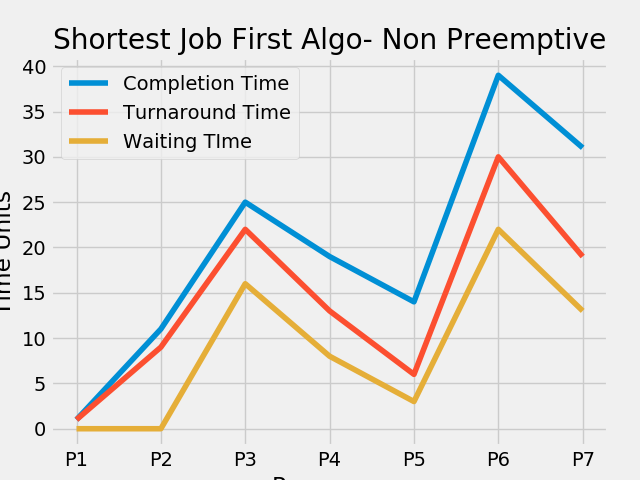
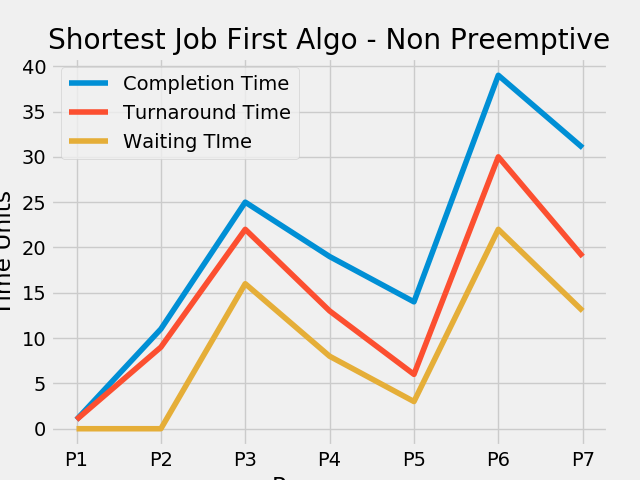
completed

Changed region(s): [[0.0625, 0.0312, 0.9688, 0.125]]

diff --git a/src/SJF_P.py b/src/SJF_P.py
@@ -2,8 +2,6 @@ import matplotlib.pyplot as plt;
 
 plt.style.use('fivethirtyeight')
  
-
- 
 def findWaitingTime(processes, n, wt):  
     rt = [0] * n 
     for i in range(n):  
@@ -13,9 +11,8 @@ def findWaitingTime(processes, n, wt):
     minm = 999999999
     short = 0
     check = False
-
-    while (complete != n): 
   
+    while (complete != n): 
         for j in range(n): 
             if ((processes[j][2] <= t) and 
                 (rt[j] < minm) and rt[j] > 0): 
@@ -27,67 +24,86 @@ def findWaitingTime(processes, n, wt):
             continue
               
         rt[short] -= 1
-
         minm = rt[short]  
         if (minm == 0):  
             minm = 999999999
         if (rt[short] == 0):  
+  
             complete += 1
             check = False
             fint = t + 1
-            wt[short] = (fint - processes[short][1] -  processes[short][2]) 
-
+            wt[short] = (fint - processes[short][1] -processes[short][2]) 
+  
             if (wt[short] < 0): 
                 wt[short] = 0
         t += 1
-        print(t)
-  
+
+
 def findTurnAroundTime(processes, n, wt, tat):  
+    
     for i in range(n): 
         tat[i] = processes[i][1] + wt[i]  
 
 
-
+  
 def findavgTime(processes, n):  
     wt = [0] * n 
     tat = [0] * n  
-    findWaitingTime(processes, n, wt)
-    print('before turn')  
+    findWaitingTime(processes, n, wt)  
     findTurnAroundTime(processes, n, wt, tat)  
-    return wt,tat
-     
-  
-    
-      
-def print_data(processes,n,wt,tat):
-    print("Processes    Burst Time     Waiting",  
-                    "Time     Turn-Around Time") 
-    total_wt = 0
-    total_tat = 0
-    for i in range(n): 
-        total_wt = total_wt + wt[i]  
-        total_tat = total_tat + tat[i] 
-        print(" ", processes[i][0], "\t\t",  
-                   processes[i][1], "\t\t",  
-                   wt[i], "\t\t", tat[i]) 
+    compl_time = []
+    for i in range(n):
+         compl_time.append(tat[i]+processes[i][2])
+    return wt, tat,compl_time
 
-    print("\nAverage waiting time = %.5f "%(total_wt /n) ) 
-    print("Average turn around time = ", total_tat / n)  
+
+def print_data(processes,w_time,tat_time,compl_time,n):
+    
+    print("Processes\t\tBurst Time\t\tWaiting",  
+                    "Time\t\tTurn-Around Time\t\tArrival Time\t\tCompletion Time" )
+    for i in range(n): 
+ 
+        print(" ", processes[i][0], "\t\t\t",  
+                   processes[i][1], "\t\t\t",  
+                   w_time[i], "\t\t\t", tat_time[i],'\t\t\t\t',processes[i][2],'\t\t\t',compl_time[i]) 
+  
+    print("\nAverage waiting time = %.5f "%(sum(w_time) /n) ) 
+    print("Average turn around time = ", sum(tat_time) / n)  
+    print("Throughput  =  ",n/max(compl_time))
+
+
+def  plot_graph(processes,waiting_time,compl_time,turn_around_time):
+
+    plt.plot(processes,waiting_time,label = "Waiting time")
+    plt.plot(processes,compl_time,label = "Completion time")
+    plt.plot(processes,turn_around_time,label = "Turnaround Time")
+    plt.text(4,2,'Throughput = %.5f'  % (len(processes)/ compl_time[len(processes)-1]))
+    plt.title("SJF PREEMPTIVE")
+    plt.xlabel("Processes")
+    plt.ylabel("Time Units")
+    plt.legend()
+    plt.savefig('./output/FCFS_output.png')
+    plt.show()
+
+
 
 def sjf_p():
-    #change
-    proc = []
-    with open('../inputs/SJF_P.txt','r') as  f:
+    process_data = []
+    #change dis
+    with open('./inputs/SJF_P.txt','r') as  f:
         f.readline()
         for line in f.readlines():
             temporary = []
             process , burst , arrival = (line.split(" "))
-            temporary.extend([process, int(arrival), int(burst)])
-            proc.append(temporary)
-    print(len(proc))
-    wt,tat = findavgTime(proc, len(proc)) 
-    print_data(proc,len(proc),wat,tat)
+            temporary.extend([process, int(burst), int(arrival)])
+            process_data.append(temporary)
+    n = len(process_data)
+    w_time,tat_time,compl_time =  findavgTime(process_data, n) 
+    print_data(process_data, w_time, tat_time,compl_time,n)
+    plot_graph([p[0] for p in process_data],w_time,compl_time,tat_time)
+    plt.close(fig='all')
 
+# Driver code  
 if __name__ =="__main__": 
     sjf_p()
-      
+

diff --git a/src/CompareAll.py b/src/CompareAll.py
@@ -3,6 +3,7 @@ from src import FCFS
 from src import PRIORITY_P
 from src import ROUND_ROBIN
 from src import SJF_NP
+from src import SJF_P
 import matplotlib.pyplot as plt
 import numpy as np
 
@@ -86,11 +87,28 @@ def compare():
     sn_waiting,sn_turn_around,sn_compl_time =SJF_NP.schedulingProcess(processes_data) 
 
 
-    plt.bar(x, f_waiting, width = 0.1,label = "FCFS")
-    plt.bar(x - 0.1, r_waiting, width = 0.1,label = "Round Robin" )
-    plt.bar(x+0.1,np_waiting,width=0.1,label = "Priority Non Preemptive")
-    plt.bar(x+0.2,np_waiting,width=0.1,label = "Priority Preemptive")   
-    plt.bar(x+0.3,np_waiting,width=0.1,label = "SJF Non Preemptive")   
+    processes_data =[]
+
+    for i in range(len(processes)):
+        l = [] 
+        for j in range(3): 
+            l.append(0) 
+        processes_data.append(l) 
+
+    for i in range(len(processes)):
+        processes_data[i][0] = processes[i]
+        processes_data[i][1] = burst_time[i]
+        processes_data[i][2] = arrival_time[i]
+
+    sp_waiting,sp_turn_around,sp_compl_time =SJF_P.findavgTime(processes_data,len(processes_data)) 
+
+
+    plt.bar(x-0.3, f_waiting, width = 0.1,label = "FCFS")
+    plt.bar(x - 0.2, r_waiting, width = 0.1,label = "Round Robin" )
+    plt.bar(x-0.1,np_waiting,width=0.1,label = "Priority Non Preemptive")
+    plt.bar(x,np_waiting,width=0.1,label = "Priority Preemptive")   
+    plt.bar(x+0.1,np_waiting,width=0.1,label = "SJF Non Preemptive",) 
+    plt.bar(x+0.2,np_waiting,width=0.1,label = "SJF Preemptive")   
     plt.xticks(x,processes)
     plt.ylabel("Waiting Time")
     plt.legend()

diff --git a/src/SJF_NP.py b/src/SJF_NP.py
@@ -107,13 +107,16 @@ def printData(  process_data):
 
     print(f'Average Waiting Time: {average_waiting_time}')
 
+    print("Throughput  =  ",len(process_data)/max([p[4] for p in process_data]))
+
+
 
 
 def plot_graph( process_data):
     plt.plot([p[0] for p in process_data],[po[4] for po in process_data],label = 'Completion Time')
     plt.plot([p[0] for p in process_data],[po[5] for po in process_data],label = 'Turnaround Time')
     plt.plot([p[0] for p in process_data],[po[6] for po in process_data],label = 'Waiting TIme')
-    plt.title("Shortest Job First Algo- Non Preemptive")
+    plt.title("Shortest Job First Algo - Non Preemptive")
     plt.xlabel("Processes")
     plt.ylabel("Time Units")
     plt.legend()
@@ -141,4 +144,5 @@ def sjf_np():
     plt.close(fig='all')
 
 
-
+if __name__ == '__main__':
+    sjf_np()

diff --git a/src/ROUND_ROBIN.py b/src/ROUND_ROBIN.py
@@ -90,7 +90,7 @@ def print_details(processes,burst_time,waiting_time,compl_time,tat):
            print(" ", processes[i] , "\t\t", burst_time[i], "\t\t", waiting_time[i], "\t\t", tat[i],"\t\t",compl_time[i]) 
     print("\nAverage waiting_time = %.5f "%(sum(waiting_time) /len(processes)) ) 
     print("Average turn around time = %.5f "% (sum(tat) / len(processes)))  
-    print('Throughput = ', len(processes)/ compl_time[len(processes)-1])
+    print('Throughput = ', len(processes)/ max(compl_time))
     print('Average Job elapsed time = ',sum(tat)/len(processes))
 
 

diff --git a/src/PRIORITY_P.py b/src/PRIORITY_P.py
@@ -121,6 +121,7 @@ def printData(process_data, average_turnaround_time, average_waiting_time,  tat,
 
     print(f'Average Waiting Time: {average_waiting_time}')
 
+    print("Throughput  =  ",len(process_data)/max([p[6] for p in process_data]))
     #   print(f'Sequence of Process: {sequence_of_process}')
 
     plt.plot(processes, twt, '-', label='Waiting Time')

diff --git a/main.py b/main.py
@@ -14,7 +14,7 @@ def choose(choice):
     elif choice == 1:
         src.fcfs()
     elif choice == 2:
-        pass
+        src.sjf_p()
     elif choice == 3:
         src.sjf_np()
     elif choice == 4:

diff --git a/src/__init__.py b/src/__init__.py
@@ -4,3 +4,4 @@ from .PRIORITY_P import priority_p
 from .ROUND_ROBIN import round_robin
 from .CompareAll import compare
 from .SJF_NP import sjf_np
+from .SJF_P import sjf_p
